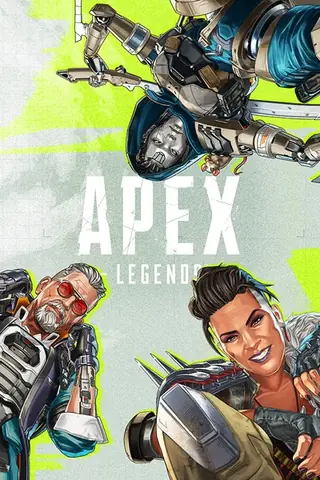
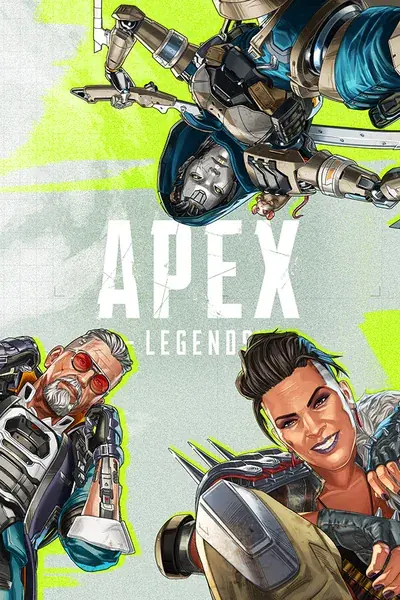
Site : jaquettes du chargement bien plus grandes et jamais rognees
Sofiene, 25/11 : « deja au chargement je veux que les cover soit plus grande
sur l'ecran et qu'on les voit en totalite c'est a dire aucun crop ».

- .x-ld-sh : largeur min(clamp(240px,29vw,440px),45vh) au lieu de
  clamp(128px,15vw,230px). La carte fait maintenant les deux tiers de la
  hauteur de l'ecran, et la borne en vh garantit que la jaquette entiere
  tient toujours, de 1280x720 au 2560x1440 comme sur telephone.
- object-fit:contain et plus d'aspect-ratio impose : quoi qu'il arrive
  l'image n'est jamais rognee. Arrondi et ombre remontes a l'echelle.
- Le decalage de la pile suit la taille de la carte (v5.js), sinon la
  pile paraissait collee une fois les cartes agrandies.
- Les dix jaquettes repassent en 400 x 600, leur pleine resolution dans
  l'app, au lieu de 320 x 480 : nettes a cette taille. WebP qualite 76,
  336 Ko les dix contre 244.

Claude-Session: https://claude.ai/code/session_015UUBtZGaur1mkbThXQxEN4

diff --git a/site/index.html b/site/index.html
@@ -30,8 +30,8 @@
 <link rel="preload" href="fonts/BarlowCondensed-900-italic.woff2" as="font" type="font/woff2" crossorigin>
 <link rel="preload" href="fonts/Barlow-400.woff2" as="font" type="font/woff2" crossorigin>
 <script>document.documentElement.style.setProperty("--k",Math.max(.78,Math.min(1.45,innerWidth/1440,innerHeight/1000)).toFixed(3))</script>
-<link rel="stylesheet" href="v5.css?v=1a9fbb09e9">
-<script src="v5.js?v=082056b0ec" defer></script>
+<link rel="stylesheet" href="v5.css?v=1b729af8d3">
+<script src="v5.js?v=cca3c32f34" defer></script>
 <noscript><style>.js-only{display:none!important}</style></noscript>
 <style>
 /* Layout of the home page, site v6 (23/11/2026): the structure and the motion of the reference site Sofiene chose, in Rago's
@@ -722,7 +722,7 @@ details.s-q p{padding:0 0 24px;font-size:15.5px;line-height:1.6}
 <script>/* site v6: the loader shows from the first frame (removed by the shared script; never left on screen more than 9 s) */
 if (!matchMedia("(prefers-reduced-motion: reduce)").matches) { document.documentElement.classList.add("has-ld", "x-pre-intro"); window.__xLdSafe = setTimeout(() => document.documentElement.classList.remove("has-ld", "x-pre-intro"), 9000); }</script>
 <div class="x-ld" aria-hidden="true">
-  <div class="x-ld-st"><img class="x-ld-sh" src="img/covers/fortnite.webp" alt="" width="320" height="480"><img class="x-ld-sh" src="img/covers/valorant.webp" alt="" width="320" height="480"><img class="x-ld-sh" src="img/covers/gta.webp" alt="" width="320" height="480"><img class="x-ld-sh" src="img/covers/cs2.webp" alt="" width="320" height="480"><img class="x-ld-sh" src="img/covers/lol.webp" alt="" width="320" height="480"><img class="x-ld-sh" src="img/covers/roblox.webp" alt="" width="320" height="480"><img class="x-ld-sh" src="img/covers/apex.webp" alt="" width="320" height="480"><img class="x-ld-sh" src="img/covers/rl.webp" alt="" width="320" height="480"><img class="x-ld-sh" src="img/covers/overwatch.webp" alt="" width="320" height="480"><img class="x-ld-sh" src="img/covers/minecraft.webp" alt="" width="320" height="480"></div>
+  <div class="x-ld-st"><img class="x-ld-sh" src="img/covers/fortnite.webp" alt="" width="400" height="600"><img class="x-ld-sh" src="img/covers/valorant.webp" alt="" width="400" height="600"><img class="x-ld-sh" src="img/covers/gta.webp" alt="" width="400" height="600"><img class="x-ld-sh" src="img/covers/cs2.webp" alt="" width="400" height="600"><img class="x-ld-sh" src="img/covers/lol.webp" alt="" width="400" height="600"><img class="x-ld-sh" src="img/covers/roblox.webp" alt="" width="400" height="600"><img class="x-ld-sh" src="img/covers/apex.webp" alt="" width="400" height="600"><img class="x-ld-sh" src="img/covers/rl.webp" alt="" width="400" height="600"><img class="x-ld-sh" src="img/covers/overwatch.webp" alt="" width="400" height="600"><img class="x-ld-sh" src="img/covers/minecraft.webp" alt="" width="400" height="600"></div>
   <div class="x-ld-w"><span class="x-ld-p">rago</span><span class="x-ld-g"><span class="x-ld-n"><b>0</b>%</span></span><span class="x-ld-p r">optimizer.</span></div>
 </div>
 <a class="sr-only" href="#home">Skip to content</a>
@@ -969,10 +969,10 @@ if (!matchMedia("(prefers-reduced-motion: reduce)").matches) { document.document
             <div id="dres"><div class="r on"><span>Disable mouse acceleration</span><em>latency</em></div><div class="r"><span>Disable Game DVR</span><em>windows</em></div><div class="r"><span>Disable NIC power saving</span><em>network</em></div></div></div></article>
           <article class="x-ob"><h3>start from a preset</h3><p>One click selects a tested set: <span class="n-presets">20</span> presets, 15 of them made for a game.</p>
             <div class="vis x-ovg" id="presets" aria-hidden="true">
-              <span class="x-ovc on"><img src="img/covers/valorant.webp" alt="" width="320" height="480" loading="lazy"><span class="pc"><i></i>on pc</span><b>val</b></span>
-              <span class="x-ovc"><img src="img/covers/cs2.webp" alt="" width="320" height="480" loading="lazy"><b>cs2</b></span>
-              <span class="x-ovc"><img src="img/covers/fortnite.webp" alt="" width="320" height="480" loading="lazy"><b>fort</b></span>
-              <span class="x-ovc"><img src="img/covers/minecraft.webp" alt="" width="320" height="480" loading="lazy"><span class="pc"><i></i>on pc</span><b>mc</b></span>
+              <span class="x-ovc on"><img src="img/covers/valorant.webp" alt="" width="400" height="600" loading="lazy"><span class="pc"><i></i>on pc</span><b>val</b></span>
+              <span class="x-ovc"><img src="img/covers/cs2.webp" alt="" width="400" height="600" loading="lazy"><b>cs2</b></span>
+              <span class="x-ovc"><img src="img/covers/fortnite.webp" alt="" width="400" height="600" loading="lazy"><b>fort</b></span>
+              <span class="x-ovc"><img src="img/covers/minecraft.webp" alt="" width="400" height="600" loading="lazy"><span class="pc"><i></i>on pc</span><b>mc</b></span>
             </div></article>
           <article class="x-ob"><h3>always a way back</h3><p>Turn a tweak off and your settings go back the way they were. A restore point is offered before advanced tweaks.</p>
             <div class="vis s-toast" aria-hidden="true"><svg class="i" aria-hidden="true"><use href="#i-check"/></svg><div><b>Restore point created</b><span>Restore Windows with System Restore.</span></div></div></article>

diff --git a/site/src/page.html b/site/src/page.html
@@ -691,7 +691,7 @@ details.s-q p{padding:0 0 24px;font-size:15.5px;line-height:1.6}
 <script>/* site v6: the loader shows from the first frame (removed by the shared script; never left on screen more than 9 s) */
 if (!matchMedia("(prefers-reduced-motion: reduce)").matches) { document.documentElement.classList.add("has-ld", "x-pre-intro"); window.__xLdSafe = setTimeout(() => document.documentElement.classList.remove("has-ld", "x-pre-intro"), 9000); }</script>
 <div class="x-ld" aria-hidden="true">
-  <div class="x-ld-st"><img class="x-ld-sh" src="img/covers/fortnite.webp" alt="" width="320" height="480"><img class="x-ld-sh" src="img/covers/valorant.webp" alt="" width="320" height="480"><img class="x-ld-sh" src="img/covers/gta.webp" alt="" width="320" height="480"><img class="x-ld-sh" src="img/covers/cs2.webp" alt="" width="320" height="480"><img class="x-ld-sh" src="img/covers/lol.webp" alt="" width="320" height="480"><img class="x-ld-sh" src="img/covers/roblox.webp" alt="" width="320" height="480"><img class="x-ld-sh" src="img/covers/apex.webp" alt="" width="320" height="480"><img class="x-ld-sh" src="img/covers/rl.webp" alt="" width="320" height="480"><img class="x-ld-sh" src="img/covers/overwatch.webp" alt="" width="320" height="480"><img class="x-ld-sh" src="img/covers/minecraft.webp" alt="" width="320" height="480"></div>
+  <div class="x-ld-st"><img class="x-ld-sh" src="img/covers/fortnite.webp" alt="" width="400" height="600"><img class="x-ld-sh" src="img/covers/valorant.webp" alt="" width="400" height="600"><img class="x-ld-sh" src="img/covers/gta.webp" alt="" width="400" height="600"><img class="x-ld-sh" src="img/covers/cs2.webp" alt="" width="400" height="600"><img class="x-ld-sh" src="img/covers/lol.webp" alt="" width="400" height="600"><img class="x-ld-sh" src="img/covers/roblox.webp" alt="" width="400" height="600"><img class="x-ld-sh" src="img/covers/apex.webp" alt="" width="400" height="600"><img class="x-ld-sh" src="img/covers/rl.webp" alt="" width="400" height="600"><img class="x-ld-sh" src="img/covers/overwatch.webp" alt="" width="400" height="600"><img class="x-ld-sh" src="img/covers/minecraft.webp" alt="" width="400" height="600"></div>
   <div class="x-ld-w"><span class="x-ld-p">rago</span><span class="x-ld-g"><span class="x-ld-n"><b>0</b>%</span></span><span class="x-ld-p r">optimizer.</span></div>
 </div>
 <a class="sr-only" href="#home">Skip to content</a>
@@ -938,10 +938,10 @@ if (!matchMedia("(prefers-reduced-motion: reduce)").matches) { document.document
             <div id="dres"><div class="r on"><span>Disable mouse acceleration</span><em>latency</em></div><div class="r"><span>Disable Game DVR</span><em>windows</em></div><div class="r"><span>Disable NIC power saving</span><em>network</em></div></div></div></article>
           <article class="x-ob"><h3>start from a preset</h3><p>One click selects a tested set: <span class="n-presets">20</span> presets, 15 of them made for a game.</p>
             <div class="vis x-ovg" id="presets" aria-hidden="true">
-              <span class="x-ovc on"><img src="img/covers/valorant.webp" alt="" width="320" height="480" loading="lazy"><span class="pc"><i></i>on pc</span><b>val</b></span>
-              <span class="x-ovc"><img src="img/covers/cs2.webp" alt="" width="320" height="480" loading="lazy"><b>cs2</b></span>
-              <span class="x-ovc"><img src="img/covers/fortnite.webp" alt="" width="320" height="480" loading="lazy"><b>fort</b></span>
-              <span class="x-ovc"><img src="img/covers/minecraft.webp" alt="" width="320" height="480" loading="lazy"><span class="pc"><i></i>on pc</span><b>mc</b></span>
+              <span class="x-ovc on"><img src="img/covers/valorant.webp" alt="" width="400" height="600" loading="lazy"><span class="pc"><i></i>on pc</span><b>val</b></span>
+              <span class="x-ovc"><img src="img/covers/cs2.webp" alt="" width="400" height="600" loading="lazy"><b>cs2</b></span>
+              <span class="x-ovc"><img src="img/covers/fortnite.webp" alt="" width="400" height="600" loading="lazy"><b>fort</b></span>
+              <span class="x-ovc"><img src="img/covers/minecraft.webp" alt="" width="400" height="600" loading="lazy"><span class="pc"><i></i>on pc</span><b>mc</b></span>
             </div></article>
           <article class="x-ob"><h3>always a way back</h3><p>Turn a tweak off and your settings go back the way they were. A restore point is offered before advanced tweaks.</p>
             <div class="vis s-toast" aria-hidden="true"><svg class="i" aria-hidden="true"><use href="#i-check"/></svg><div><b>Restore point created</b><span>Restore Windows with System Restore.</span></div></div></article>

diff --git a/site/v5.css b/site/v5.css
@@ -898,7 +898,7 @@ html.x-on body{background:var(--bg)}
 .has-ld.x-ld-out .x-ld{transform:translateY(-100%)}
 .has-ld body{overflow:hidden}
 .x-ld-st{position:absolute;inset:0;display:flex;align-items:center;justify-content:center;pointer-events:none}
-.x-ld-sh{position:absolute;width:clamp(128px,15vw,230px);aspect-ratio:2/3;height:auto;object-fit:cover;border-radius:8px;box-shadow:0 18px 40px rgba(10,10,11,.25);visibility:hidden;transform:translate3d(var(--x,0),var(--y,0),0) rotate(var(--r,0deg))}
+.x-ld-sh{position:absolute;width:min(clamp(240px,29vw,440px),45vh);height:auto;object-fit:contain;border-radius:14px;box-shadow:0 26px 60px rgba(10,10,11,.32);visibility:hidden;transform:translate3d(var(--x,0),var(--y,0),0) rotate(var(--r,0deg))}
 .x-ld-sh.x-in{visibility:visible;transition:transform .72s cubic-bezier(.5,0,.78,.46)}
 .x-ld-sh.x-out{transform:translate3d(var(--x,0),-125vh,0) rotate(var(--or,-10deg)) scale(.82)}
 .x-ld-w{display:flex;align-items:center;justify-content:center;max-width:100%;font-family:var(--cond);font-weight:900;font-style:italic;font-size:clamp(34px,8.6vw,132px);line-height:1;letter-spacing:-.01em;text-transform:uppercase;color:var(--bg);white-space:nowrap;opacity:0;transition:opacity .6s ease}

diff --git a/site/v5.js b/site/v5.js
@@ -481,9 +481,10 @@
     set(0);
     const word = () => { requestAnimationFrame(() => requestAnimationFrame(() => doc.classList.add("x-ld-ready"))); setTimeout(() => { t0 = performance.now(); requestAnimationFrame(count); }, 420); };
     if (shots.length) {
+      const k = (shots[0].getBoundingClientRect().width || 230) / 230;   // the deck leans the same way whatever the cover's size
       shots.forEach((s, i) => {
         const a = (i % 2 ? 1 : -1);
-        s.style.setProperty("--x", (a * (6 + Math.random() * 14)).toFixed(0) + "px"); s.style.setProperty("--y", ((Math.random() * 2 - 1) * 14).toFixed(0) + "px");
+        s.style.setProperty("--x", (a * k * (6 + Math.random() * 14)).toFixed(0) + "px"); s.style.setProperty("--y", (k * (Math.random() * 2 - 1) * 14).toFixed(0) + "px");
         s.style.setProperty("--r", ((Math.random() * 2 - 1) * 7).toFixed(1) + "deg"); s.style.setProperty("--or", (a * (8 + Math.random() * 6)).toFixed(1) + "deg");
         s.style.zIndex = i + 1; setTimeout(() => s.classList.add("x-in"), 150 * i);
       });

diff --git a/site/route.html b/site/route.html
@@ -26,8 +26,8 @@
 <link rel="apple-touch-icon" href="apple-touch-icon.png">
 <link rel="preload" href="fonts/BarlowCondensed-900-italic.woff2" as="font" type="font/woff2" crossorigin>
 <script>document.documentElement.style.setProperty("--k",Math.max(.78,Math.min(1.45,innerWidth/1440,innerHeight/1000)).toFixed(3))</script>
-<link rel="stylesheet" href="v5.css?v=1a9fbb09e9">
-<script src="v5.js?v=082056b0ec" defer></script>
+<link rel="stylesheet" href="v5.css?v=1b729af8d3">
+<script src="v5.js?v=cca3c32f34" defer></script>
 <style>
 .r5-nav .brand{display:flex;align-items:center;gap:12px}
 .r5-nav .brand i{width:2px;height:26px;background:var(--line-2);transform:skewX(var(--skew))}

diff --git a/site/partners.html b/site/partners.html
@@ -18,8 +18,8 @@
 <link rel="apple-touch-icon" href="apple-touch-icon.png">
 <link rel="preload" href="fonts/BarlowCondensed-900-italic.woff2" as="font" type="font/woff2" crossorigin>
 <script>document.documentElement.style.setProperty("--k",Math.max(.78,Math.min(1.45,innerWidth/1440,innerHeight/1000)).toFixed(3))</script>
-<link rel="stylesheet" href="v5.css?v=1a9fbb09e9">
-<script src="v5.js?v=082056b0ec" defer></script>
+<link rel="stylesheet" href="v5.css?v=1b729af8d3">
+<script src="v5.js?v=cca3c32f34" defer></script>
 <style>
 .sm-nav .r > a{display:inline-flex;align-items:center;gap:8px}
 .sm-nav .r > a svg{width:16px;height:16px;transform:rotate(180deg)}

diff --git a/site/reviews.html b/site/reviews.html
@@ -18,8 +18,8 @@
 <link rel="apple-touch-icon" href="apple-touch-icon.png">
 <link rel="preload" href="fonts/BarlowCondensed-900-italic.woff2" as="font" type="font/woff2" crossorigin>
 <script>document.documentElement.style.setProperty("--k",Math.max(.78,Math.min(1.45,innerWidth/1440,innerHeight/1000)).toFixed(3))</script>
-<link rel="stylesheet" href="v5.css?v=1a9fbb09e9">
-<script src="v5.js?v=082056b0ec" defer></script>
+<link rel="stylesheet" href="v5.css?v=1b729af8d3">
+<script src="v5.js?v=cca3c32f34" defer></script>
 <style>
 .sm-nav .r > a{display:inline-flex;align-items:center;gap:8px}
 .sm-nav .r > a svg{width:16px;height:16px;transform:rotate(180deg)}

diff --git a/site/tweaks.html b/site/tweaks.html
@@ -20,8 +20,8 @@
 <link rel="apple-touch-icon" href="apple-touch-icon.png">
 <link rel="preload" href="fonts/BarlowCondensed-900-italic.woff2" as="font" type="font/woff2" crossorigin>
 <script>document.documentElement.style.setProperty("--k",Math.max(.78,Math.min(1.45,innerWidth/1440,innerHeight/1000)).toFixed(3))</script>
-<link rel="stylesheet" href="v5.css?v=1a9fbb09e9">
-<script src="v5.js?v=082056b0ec" defer></script>
+<link rel="stylesheet" href="v5.css?v=1b729af8d3">
+<script src="v5.js?v=cca3c32f34" defer></script>
 <style>
 h1,h2,h3,h4,p,dl,dd{margin:0}
 h1,h2,h3{font-weight:600;letter-spacing:-.035em;line-height:1.05;text-wrap:balance}

diff --git a/docs/vault/Code/Site/page.html.md b/docs/vault/Code/Site/page.html.md
@@ -23,7 +23,7 @@ CONFIRMÉ d'après la branche `claude/project-thread-7emsbt` (23/11/2026, PR « 
 - Le globe de la section Rago Route (entre `<!-- globe -->` et `<!-- /globe -->`, 166 Ko de SVG, 34 Ko compressés) **et ses flux et pins** (entre `<!-- flows -->` et `<!-- /flows -->`) sont écrits par [[make_planet.py]], lancé à la main.
 
 ## Sections, dans l'ordre (et leur animation)
-- **Chargement** `.x-ld` (avant tout, fond papier) : dix jaquettes verticales de jeux connus avec leur logo (`img/covers/`, Fortnite, Valorant, GTA V, CS2, League of Legends, Roblox, Apex, Rocket League, Overwatch 2, puis Minecraft au-dessus ; depuis le 24/11, à la place des captures de l'app) s'empilent puis s'envolent, « RAGO [compteur %] OPTIMIZER. » ; la case rouge du compteur grandit jusqu'à remplir l'écran, puis le tout monte. Un petit script en tête du corps l'affiche dès la première image et le retire au bout de 9 s au plus si le moteur ne tourne pas. Absent avec « réduire les animations ».
+- **Chargement** `.x-ld` (avant tout, fond papier) : dix jaquettes verticales de jeux connus avec leur logo (`img/covers/`, Fortnite, Valorant, GTA V, CS2, League of Legends, Roblox, Apex, Rocket League, Overwatch 2, puis Minecraft au-dessus ; depuis le 24/11, à la place des captures de l'app) s'empilent puis s'envolent. Depuis le 25/11 elles sont **grandes et jamais rognées** (Sofiene : « je veux que les cover soient plus grandes sur l'écran et qu'on les voie en totalité, aucun crop ») : `min(clamp(240px,29vw,440px),45vh)` de large, donc la jaquette entière tient toujours à l'écran, en `object-fit:contain` et à la résolution exacte des images (400 × 600) ; le décalage de la pile suit la taille de la carte. Puis « RAGO [compteur %] OPTIMIZER. » ; la case rouge du compteur grandit jusqu'à remplir l'écran, puis le tout monte. Un petit script en tête du corps l'affiche dès la première image et le retire au bout de 9 s au plus si le moteur ne tourne pas. Absent avec « réduire les animations ».
 - **En-tête** `header.x-hd#top` : logo « RAGO. », Discord (`js-discord`), **Sign in** (`js-account`), **Try 3 days free** → `#pricing` avec un rond rouge. Se cache quand on descend, revient quand on remonte, passe en noir sur la FAQ (fond papier).
 - **Menu rond** `nav.x-nav` (en bas à gauche, toutes tailles) : bouton rouge `#menu-btn` dont l'anneau montre la part de la page lue ; panneau papier `#menu` : Home, Why Rago, Features, Rago Route, What's new, Pricing, FAQ, Community (la section en cours en rouge), puis All tweaks, Rago Route page, Reviews (`js-rev`), Partners, Sign in, Create account, Discord. Il remonte au-dessus de la barre `#dock` sur téléphone.
 - **Héros** `.x-hero` : ruban papier « Minecraft PvP optimizer // for Windows », titre `#hero-h` « Every millisecond counts. » (pinceau rouge sous « counts. ») : après le chargement, les lettres arrivent une à une, le reste sort d'un flou ; puis une case s'ouvre entre « Every » et « millisecond » et y fait défiler six images (`.x-pool`). Les lettres proches de la souris rougissent. Accroche, boutons **Try Premium free** et **Download free** (`js-free-app`), « Free to start · Restore point offered · Windows 10 and 11 ». Dessous, bandeau sans fin des serveurs partenaires (`.x-pt`).

diff --git a/docs/vault/Code/Site/Fichiers publiés du site.md b/docs/vault/Code/Site/Fichiers publiés du site.md
@@ -41,7 +41,7 @@ Ce que [[build.py]] change entre une source et sa page : empreinte `?v=` sur `v5
 | `img/v5/` : `rago-icon.svg` (tuile blanche au R rouge, en-têtes), `rago-cap.svg`, `brush.svg` (coup de pinceau des titres), `grain.svg` (grain du fond), `shot-dashboard.webp` (capture de l'app du héros) | images du design v5 | copiées des maquettes le 22/11 |
 | `img/games/{minecraft,valorant,cs2,fortnite}.webp` | vignettes de la section bibliothèque de jeux de l'accueil (Lunar Client, VALORANT, Counter-Strike 2, Fortnite) | ajoutées le 20/10 (`4e0914e`) ; voir [[Bibliothèque de jeux]] |
 | `img/wide/{minecraft,cs2,valorant,fortnite,gta,lol,apex,overwatch,rl,pubg}.webp` | dix captures en jeu paysage 760 × 400 avec les personnages du jeu (réduites depuis `app/src/assets/s5/games/wide/`) : les losanges entre les mots du titre de l'accueil v6 et la traînée d'images sur la section « What delays your hit » ; droits d'utilisation à vérifier avant la prod | ajoutées le 24/11 (Sofiene : « mets les covers mais adapté à la forme, il faut les autres ») |
-| `img/covers/{fortnite,valorant,gta,cs2,lol,roblox,apex,rl,overwatch,minecraft}.webp` | dix jaquettes verticales 320 × 480 avec le logo du jeu (réduites depuis `app/src/assets/s5/games/cover/`) : les cartes qui s'empilent au chargement de l'accueil v6, Minecraft en dernier ; droits d'utilisation à vérifier avant la prod, comme dans l'app | ajoutées le 24/11 (demande de Sofiene : « mets plutôt les covers de jeux les plus connus ») |
+| `img/covers/{fortnite,valorant,gta,cs2,lol,roblox,apex,rl,overwatch,minecraft}.webp` | dix jaquettes verticales **400 × 600** avec le logo du jeu (la pleine résolution de `app/src/assets/s5/games/cover/`, WebP qualité 76, 336 Ko les dix) : les cartes qui s'empilent au chargement de l'accueil v6, Minecraft en dernier, et les vignettes du picker de presets ; droits d'utilisation à vérifier avant la prod, comme dans l'app | ajoutées le 24/11 (demande de Sofiene : « mets plutôt les covers de jeux les plus connus »), repassées en pleine taille le 25/11 pour le chargement agrandi |
 | `img/x/{dash-title,dash-on,dash-free,dash-analyze,dash-pc,ingame}.webp` | six découpes 640 × 400 de la capture de l'app (`img/v5/shot-dashboard.webp`) et de la barre en jeu (`media/in-game-bar.webp`) : images du titre et traînée d'images de l'accueil v6 (plus le chargement depuis le 24/11) | ajoutées le 23/11 (Site v6, [[page.html]]) |
 | `img/partners/*.webp` (7 fichiers) | logos des partenaires | listés dans [[partners.json]] |
 | `media/in-game-bar.mp4` (865 Ko), `.webm` (601 Ko), `.webp` (86 Ko, image d'attente) | vidéo derrière la démonstration de la barre en jeu sur l'accueil (`<video id="ig-v" preload="none">`) | ajoutées le 20/10 ; voir [[Barre en jeu]] |

diff --git a/docs/vault/Journal.md b/docs/vault/Journal.md
@@ -10,6 +10,7 @@ Une ligne par événement marquant, la plus récente en haut. Voir [[Historique 
 ## Novembre 2026
 | Date | Événement | Liens |
 |---|---|---|
+| 25/11 | Chargement de l'accueil : jaquettes agrandies (jusqu'à 440 px de large contre 230, soit les deux tiers de la hauteur de l'écran) et jamais rognées (`object-fit:contain`, demande de Sofiene) ; les dix images repassées en 400 × 600, leur pleine résolution, pour rester nettes | [[page.html]], [[v5.css]], [[Fichiers publiés du site]] |
 | 24/11 | Nuit : globe de Rago Route **rouge** et bien plus dense (« encore plus de points et de détails … des milliers de points et qu'il soit rouge », Sofiene) : grille de 0,75° (7 738 points, écrits en déplacements relatifs, donc toujours 34 Ko compressés), points, côtes et graticule en rouge, flux et pins passés en blanc papier pour rester lisibles par-dessus. Quatre villes de plus et onze flux, dont **l'Asie** (Novossibirsk, Iakoutsk à 130° est, Astana) et Moscou ; `make_planet.py` calcule maintenant aussi les flux et les pins, avec la même projection que le globe | [[page.html]], [[make_planet.py]], [[Questions ouvertes]] |
 | 24/11 | Nuit : globe de Rago Route redessiné plus fin (« plus de point plus de détails », Sofiene) : grille de 1,25° au lieu de 2° (2 780 points au lieu de 1 071), côtes simplifiées deux fois moins (95 Ko de SVG, 34 Ko compressés) ; flux épaissis (trait 2 → 3,4, halo 7 → 11) et impulsion ralentie de 3 s à 4,6 s | [[page.html]], [[make_planet.py]] |
 | 24/11 | Nuit : tout Rago Route réuni dans la section `#route` de l'accueil (« comme ça tout est réuni en une seule section », Sofiene). Le globe n'est plus une image mais un **dessin SVG** au style de la référence de Sofiene (points carrés sur les terres, côtes, graticule, écrits dans `page.html` par `make_planet.py`) ; il monte sous le titre « Now Rago takes the road. » avec les **cinq cartes Rago Route** posées au-dessus de sa courbe, ses pins Frankfurt et Paris et ses sept flux animés, puis globe et cartes redescendent ensemble. `img/x/planet.webp` supprimée, « Three ways in » revient à son titre et ses trois cartes seules | [[page.html]], [[make_planet.py]], [[Fichiers publiés du site]] |
